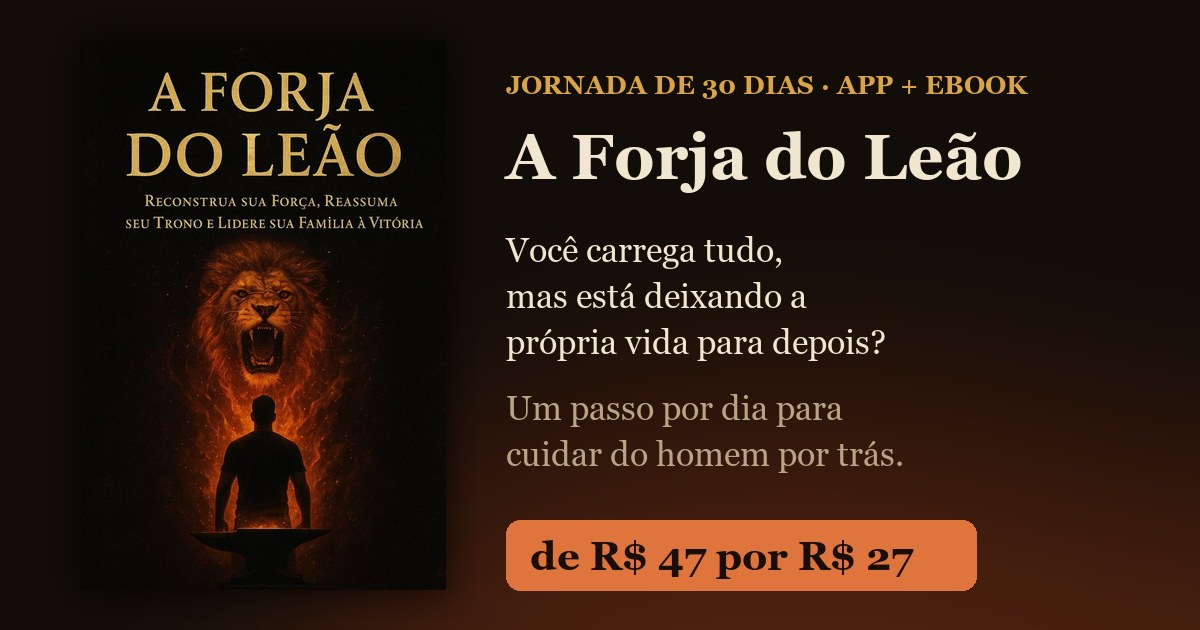
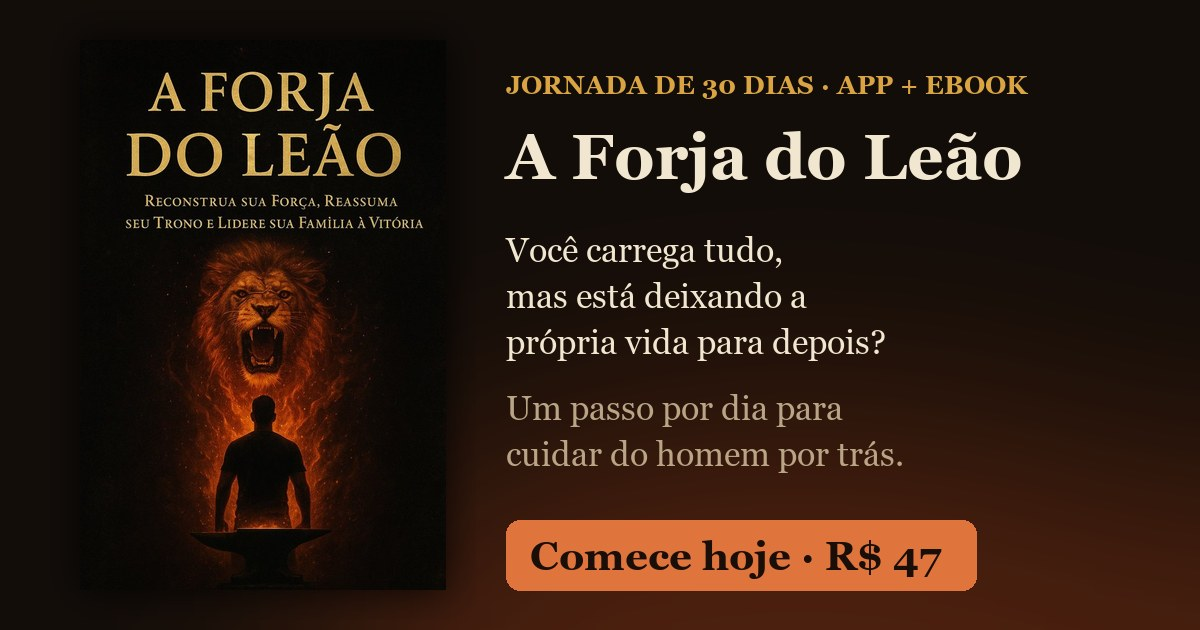
Fim da Black: preço R$ 47, sem faixa e sem preço riscado; pixel com valor 47

Changed region(s): [[0.4317, 0.8444, 0.8017, 0.9349]]

diff --git a/index.html b/index.html
@@ -19,7 +19,7 @@
   w.TiktokAnalyticsObject=t;var ttq=w[t]=w[t]||[];ttq.methods=["page","track","identify","instances","debug","on","off","once","ready","alias","group","enableCookie","disableCookie","holdConsent","revokeConsent","grantConsent"],ttq.setAndDefer=function(t,e){t[e]=function(){t.push([e].concat(Array.prototype.slice.call(arguments,0)))}};for(var i=0;i<ttq.methods.length;i++)ttq.setAndDefer(ttq,ttq.methods[i]);ttq.instance=function(t){for(var e=ttq._i[t]||[],n=0;n<ttq.methods.length;n++)ttq.setAndDefer(e,ttq.methods[n]);return e},ttq.load=function(e,n){var r="https://analytics.tiktok.com/i18n/pixel/events.js",o=n&&n.partner;ttq._i=ttq._i||{},ttq._i[e]=[],ttq._i[e]._u=r,ttq._t=ttq._t||{},ttq._t[e]=+new Date,ttq._o=ttq._o||{},ttq._o[e]=n||{};n=document.createElement("script");n.type="text/javascript",n.async=!0,n.src=r+"?sdkid="+e+"&lib="+t;e=document.getElementsByTagName("script")[0];e.parentNode.insertBefore(n,e)};
   ttq.load('DC5F49BC77UFB3T6BJ40');
   ttq.page();
-  ttq.track('ViewContent', {content_id: 'forja-do-leao', content_type: 'product', content_name: 'A Forja do Leao', value: 27, currency: 'BRL'});
+  ttq.track('ViewContent', {content_id: 'forja-do-leao', content_type: 'product', content_name: 'A Forja do Leao', value: 47, currency: 'BRL'});
 }(window, document, 'ttq');
 </script>
 <title>A Forja do Leão</title>
@@ -256,13 +256,13 @@ a:focus-visible,button:focus-visible,summary:focus-visible{outline:3px solid var
 <header class="topo faixa">
   <div class="caixa">
     <div>
-      <p class="rot"><span class="black">black friday</span> jornada guiada de 30 dias · app + ebook</p>
+      <p class="rot">jornada guiada de 30 dias · app + ebook</p>
       <h1 style="margin-top:14px">Homem, você carrega responsabilidades, tem sonhos, mas sente que está <em>deixando a própria vida para depois?</em></h1>
       <p class="golpe">Talvez esteja na hora de cuidar do homem que existe por trás de tantas responsabilidades.</p>
       <p class="sub">Em 30 dias, a Forja do Leão tira você da inércia: um app diz o que fazer a cada dia, uma voz te guia nos momentos de aperto e o ebook explica o porquê. Você recupera a confiança, descobre o que sabe fazer de valor, parte para a primeira venda e volta para casa inteiro.</p>
       <div class="acao">
-        <a class="btn" href="https://pay.kiwify.com.br/2gVF6Ht" target="_blank" rel="noopener">Eu preciso cuidar de mim <small><s>R$ 47</s> R$ 27</small></a>
-        <span class="seguro">Preço de Black até 30/11 · 7 dias de garantia</span>
+        <a class="btn" href="https://pay.kiwify.com.br/2gVF6Ht" target="_blank" rel="noopener">Eu preciso cuidar de mim <small>R$ 47</small></a>
+        <span class="seguro">Pagamento único · 7 dias de garantia</span>
       </div>
     </div>
     <div class="capa">
@@ -458,9 +458,8 @@ a:focus-visible,button:focus-visible,summary:focus-visible{outline:3px solid var
       <li><span><b>Ebook A Forja do Leão</b>, 106 páginas ilustradas, no app e em PDF (liberado no Dia 8)</span></li>
       <li><span>Tudo digital, acesso na hora em até <b>2 aparelhos</b></span></li>
     </ul>
-    <p class="de">de <s>R$ 47</s> por</p>
-    <p class="preco"><sup>R$</sup>27</p>
-    <p class="prazo">Preço de Black Friday, válido até 30/11. Depois volta para R$ 47.</p>
+    <p class="de">tudo isso por</p>
+    <p class="preco"><sup>R$</sup>47</p>
     <p class="formas">Pagamento único · Pix, cartão ou boleto</p>
     <a class="btn" href="https://pay.kiwify.com.br/2gVF6Ht" target="_blank" rel="noopener">Quero começar a jornada</a>
     <div class="garantia">
@@ -491,7 +490,7 @@ a:focus-visible,button:focus-visible,summary:focus-visible{outline:3px solid var
     <p class="pre">Você pode continuar esperando a hora certa. Ou pode dar o primeiro passo hoje, com alguém dizendo qual é o próximo.</p>
     <p class="acesa">A forja está acesa.</p>
     <p class="decisao">A decisão de começar é sua.</p>
-    <a class="btn" href="https://pay.kiwify.com.br/2gVF6Ht" target="_blank" rel="noopener">Quero começar a jornada <small><s>R$ 47</s> R$ 27</small></a>
+    <a class="btn" href="https://pay.kiwify.com.br/2gVF6Ht" target="_blank" rel="noopener">Quero começar a jornada <small>R$ 47</small></a>
   </div>
 </section>
 
@@ -501,13 +500,13 @@ a:focus-visible,button:focus-visible,summary:focus-visible{outline:3px solid var
 </footer>
 
 <div class="barra" role="region" aria-label="Comprar">
-  <p class="p"><s class="de-barra">R$ 47</s> R$ 27<small>preço de Black até 30/11</small></p>
+  <p class="p">R$ 47<small>pagamento único · 7 dias de garantia</small></p>
   <a class="btn" href="https://pay.kiwify.com.br/2gVF6Ht" target="_blank" rel="noopener">Preciso mudar</a>
 </div>
 
 <script>
 document.querySelectorAll('a[href*="pay.kiwify"]').forEach(function(a){
-  a.addEventListener('click', function(){ if(window.ttq) ttq.track('InitiateCheckout', {content_id: 'forja-do-leao', content_type: 'product', value: 27, currency: 'BRL'}); });
+  a.addEventListener('click', function(){ if(window.ttq) ttq.track('InitiateCheckout', {content_id: 'forja-do-leao', content_type: 'product', value: 47, currency: 'BRL'}); });
 });
 </script>
 
